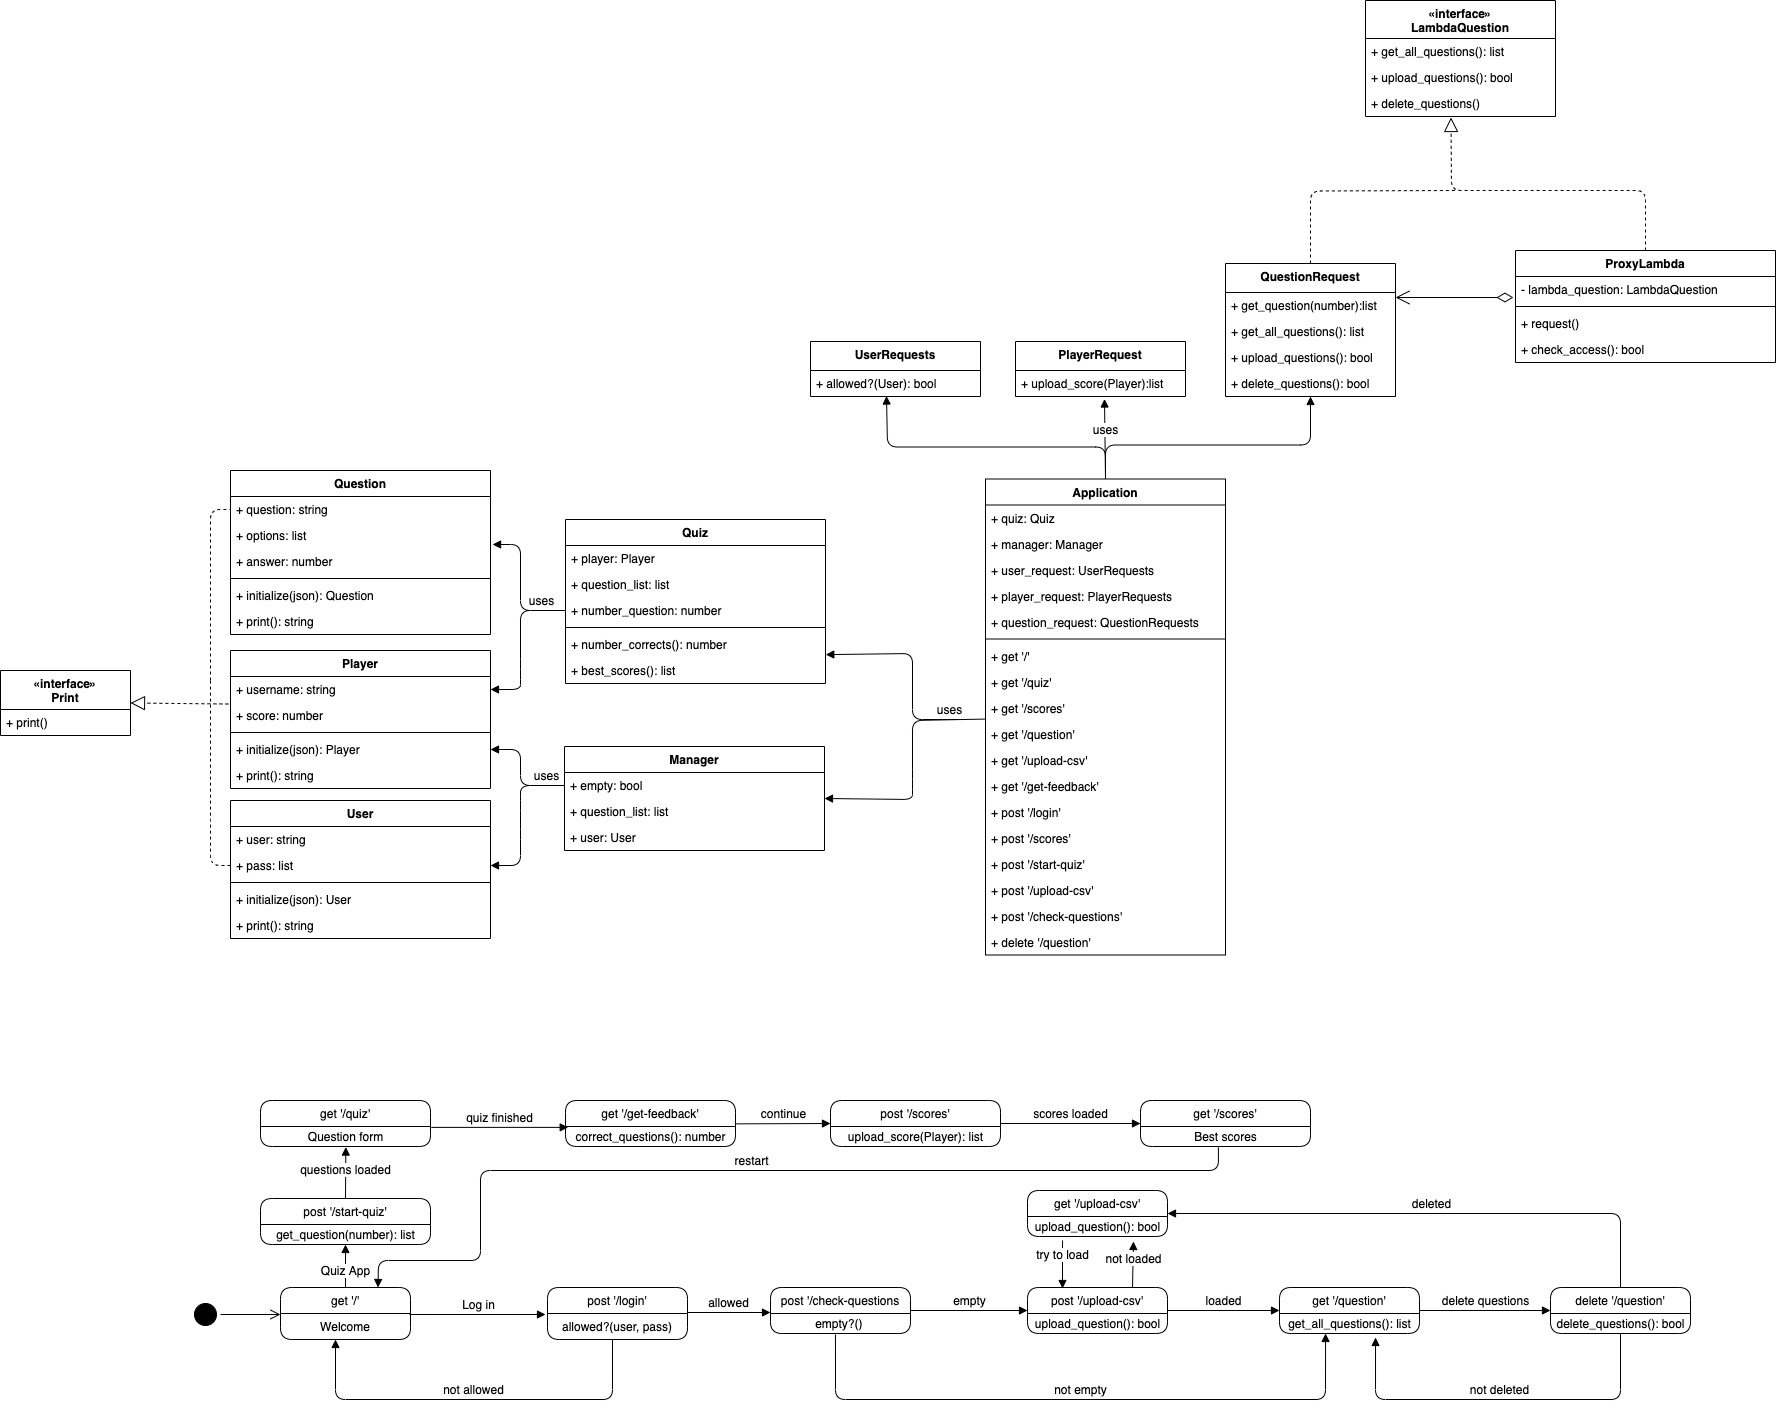
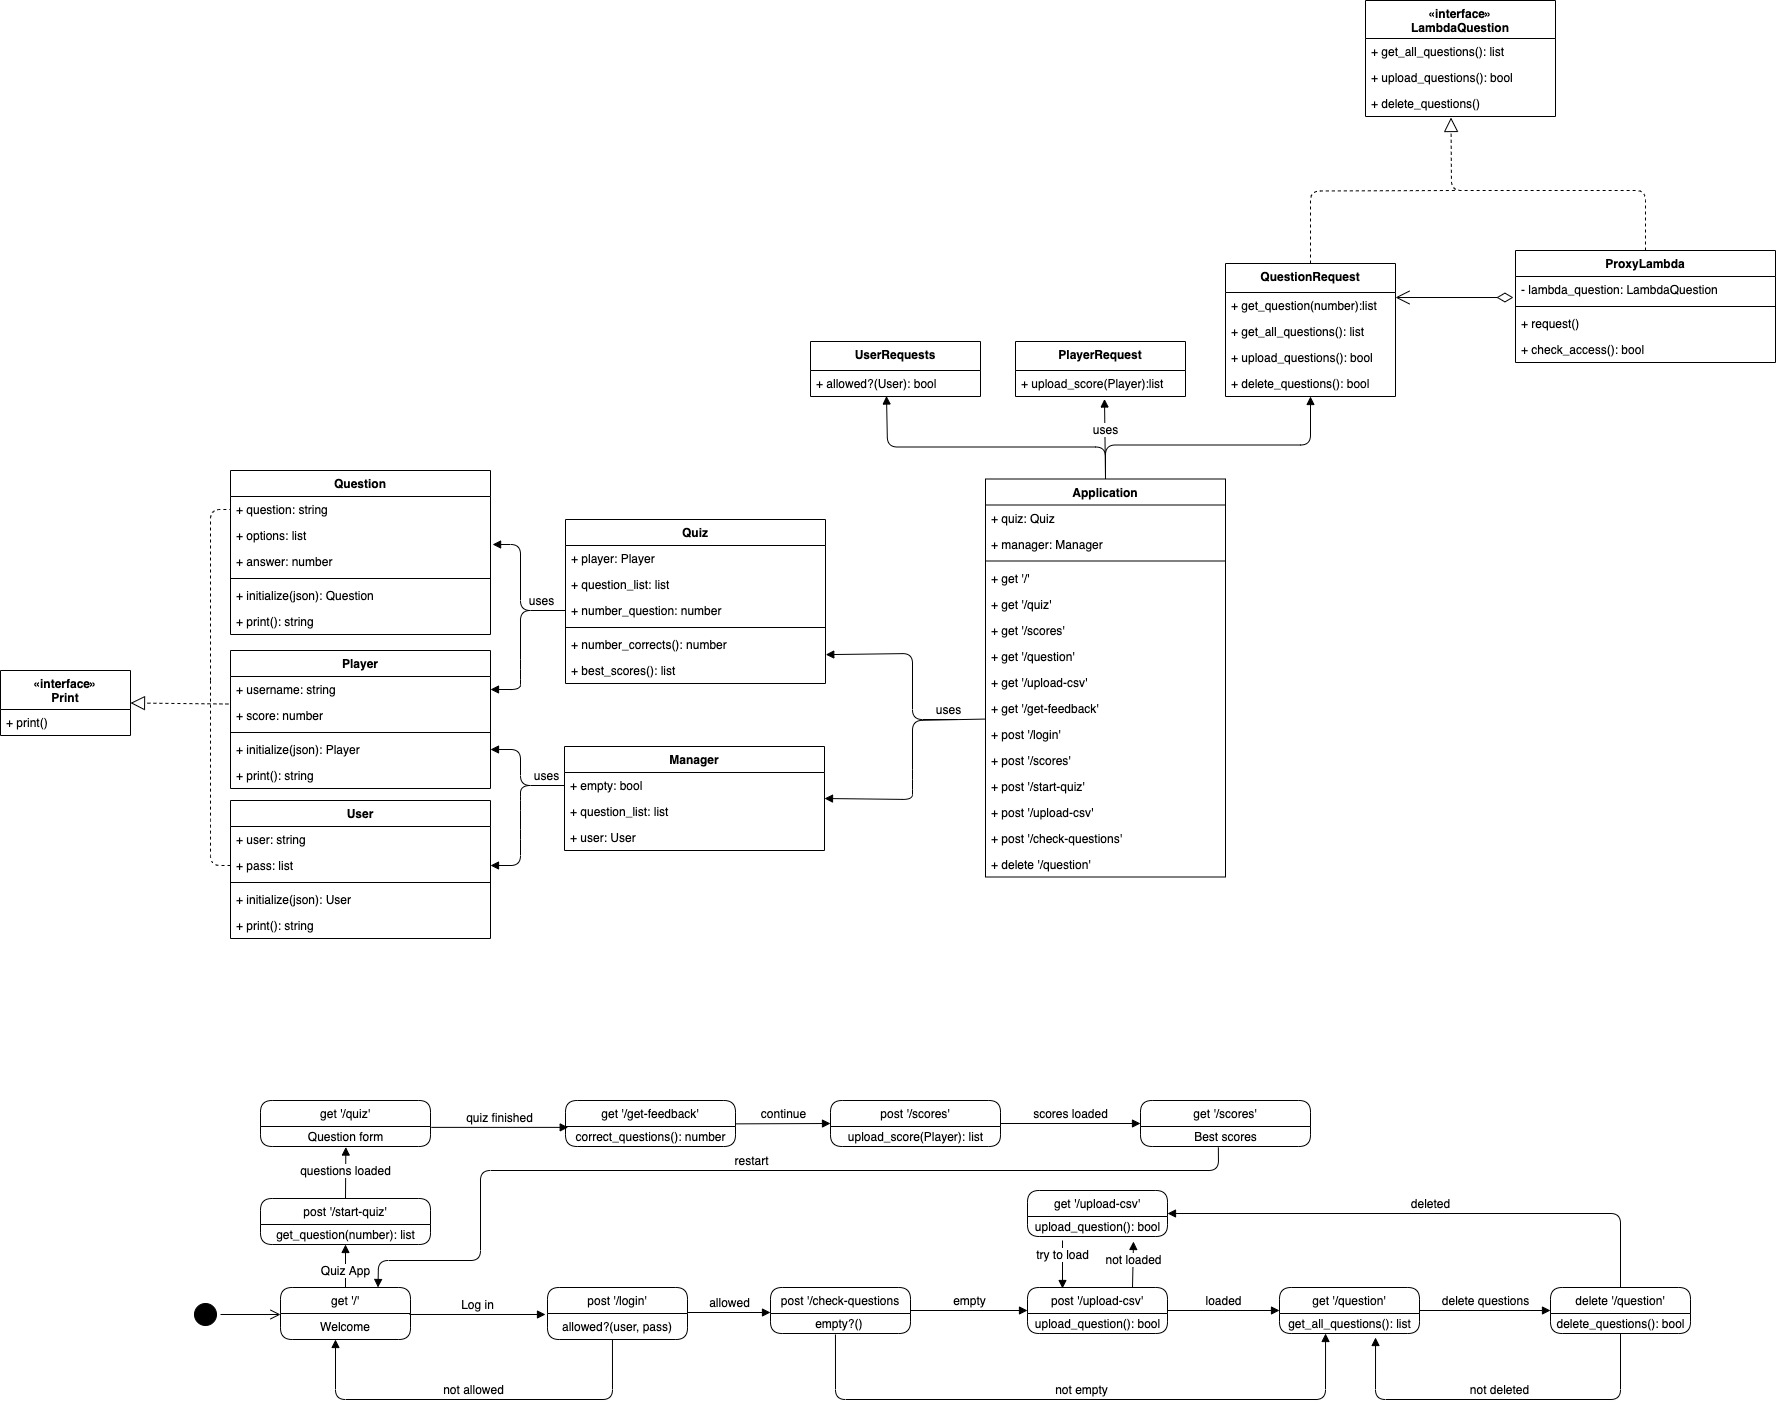
classes added

diff --git a/models/application.rb b/models/application.rb
@@ -1,0 +1,61 @@
+require 'sinatra'
+
+class Application
+  attr_accessor :quiz, :manager, :user_request, :player_request, :question_request
+
+  def initialize(quiz, manager, user_request, player_request, question_request)
+    @quiz = quiz
+    @manager = manager
+    @user_request = user_request
+    @player_request = player_request
+    @question_request = question_request
+  end
+
+  get '/' do
+
+  end
+
+  get '/quiz' do
+
+  end
+
+  get '/scores' do
+
+  end
+
+  get '/question' do
+
+  end
+
+  get '/upload-csv' do
+
+  end
+
+  get '/get-feedback' do
+
+  end
+
+  post '/login' do
+
+  end
+
+  post '/scores' do
+
+  end
+
+  post '/start-quz' do
+
+  end
+
+  post '/upload-csv' do
+
+  end
+
+  post '/check-questions' do
+
+  end
+
+  delete '/question' do
+
+  end
+end

diff --git a/models/lambda_question.rb b/models/lambda_question.rb
@@ -1,0 +1,13 @@
+class LambdaQuestion
+  def self.get_all_questions
+    raise NotImplementedError, "#{self.class} has not implemented method '#{__method__}'"
+  end
+
+  def self.upload_questions
+    raise NotImplementedError, "#{self.class} has not implemented method '#{__method__}'"
+  end
+
+  def self.delete_questions
+    raise NotImplementedError, "#{self.class} has not implemented method '#{__method__}'"
+  end
+end

diff --git a/models/question_requests.rb b/models/question_requests.rb
@@ -1,0 +1,17 @@
+class QuestionRequest < LambdaQuestion
+  def self.get_question(number)
+    []
+  end
+
+  def self.get_all_question
+    []
+  end
+
+  def upload_questions
+    false
+  end
+
+  def delete_questions
+    false
+  end
+end

diff --git a/models/player_requests.rb b/models/player_requests.rb
@@ -1,0 +1,5 @@
+class PlayerRequests
+  def self.upload_score(player)
+    []
+  end
+end

diff --git a/models/user_requests.rb b/models/user_requests.rb
@@ -1,0 +1,5 @@
+class UserRequest
+  def self.allowed?(user)
+    false
+  end
+end
